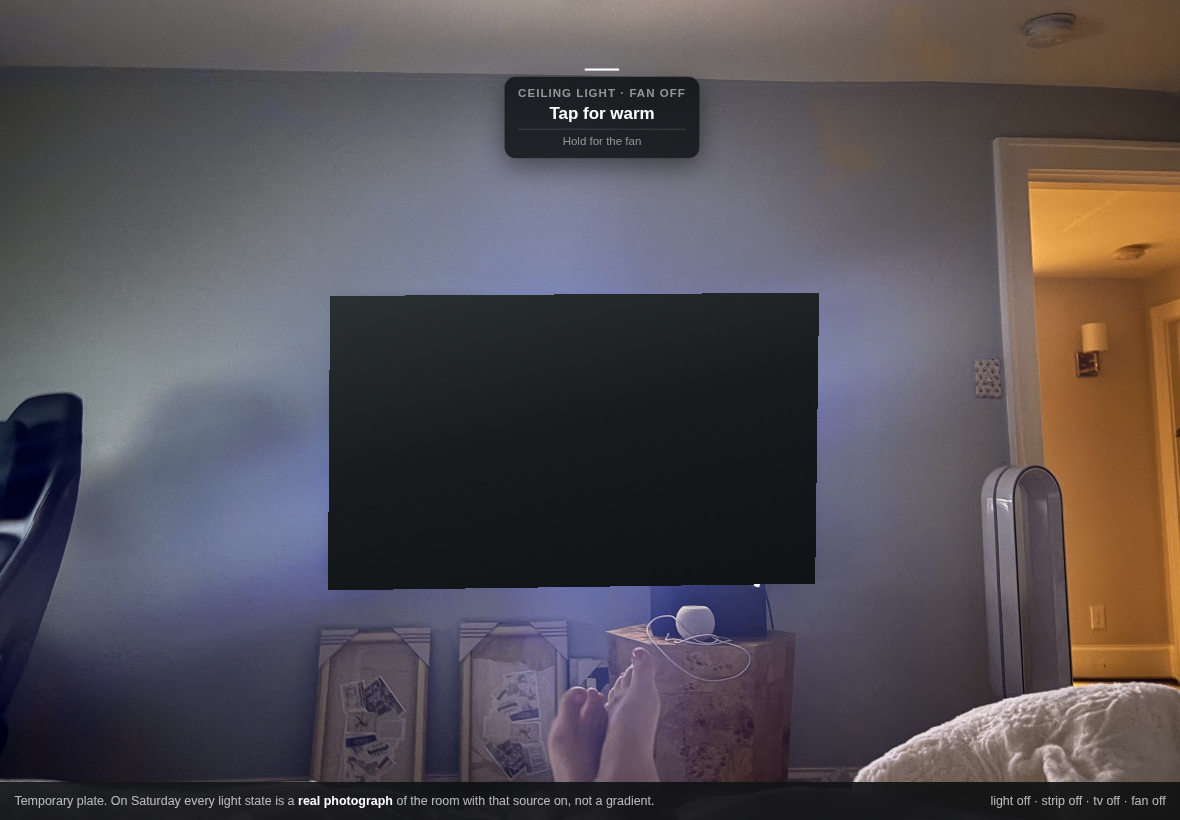
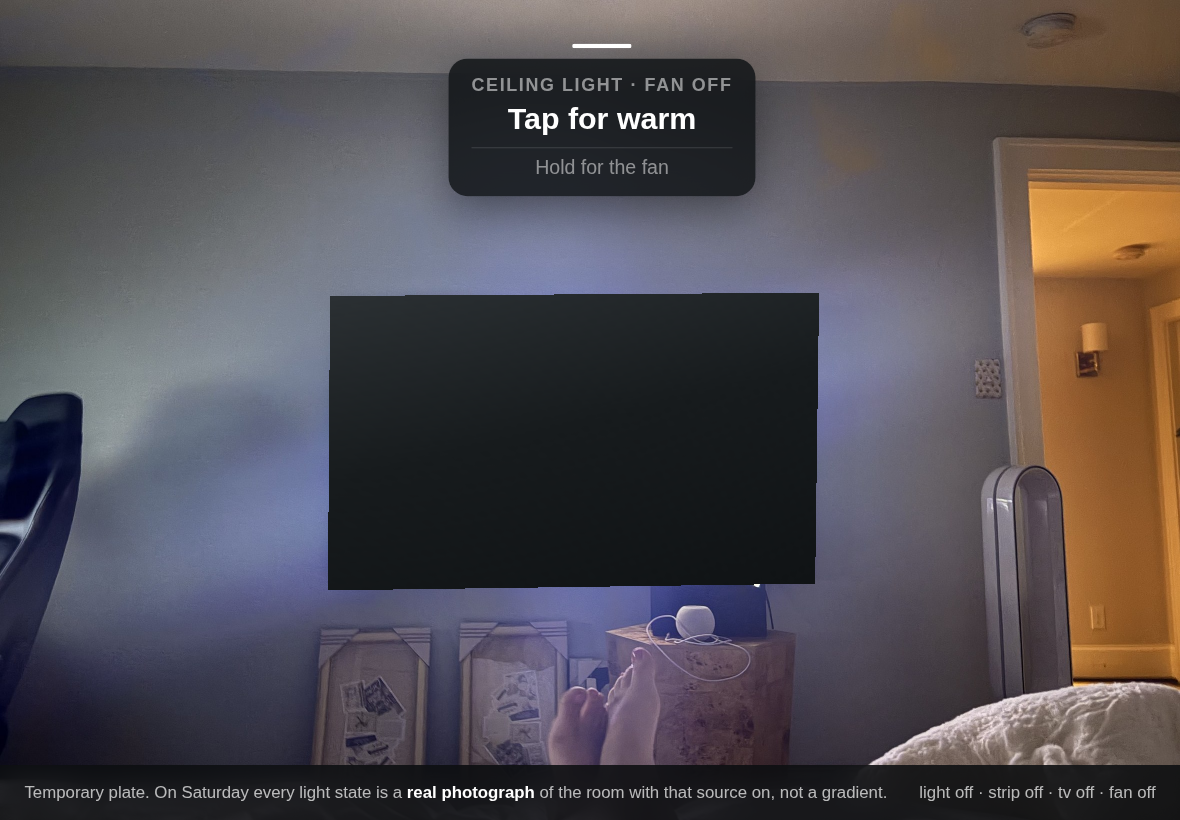
Size the type for a wall panel read across a room
The whole scale is one fluid line on html and everything downstream was already
in rem, so the change is a root value plus the four sizes that were still fixed
in px. Lands around 27px for body copy on the iPad, roughly 1.7x a browser
default.

The tradeoff is deliberate: less of a story fits and the panels scroll further.
That is the right way round for something bolted to a wall, because text you
cannot read from where you are standing is not on the screen at all.

The settings panel now scrolls. It has more rows than it used to and at this
size the Done button went off the bottom of the shorter iPad, leaving the scrim
as the only way to dismiss it, which is not discoverable enough to be the only
way out of a panel.

The source picker's labels move from vmin to px inside the box that gets mapped
onto the television. Sized against the viewport they were right on this plate
and would have been wrong on any other, since the whole point of the mapping is
that the television can land anywhere in the frame.

Claude-Session: https://claude.ai/code/session_01PLQX8NFdFZACvUmmxiss33

Changed region(s): [[0.0, 0.9146, 1.0, 1.0], [0.3661, 0.0305, 0.6407, 0.2744]]

diff --git a/index.html b/index.html
@@ -63,10 +63,22 @@
 
 *,*::before,*::after{box-sizing:border-box}
 html,body{height:100%;margin:0;overflow:hidden}
-html{-webkit-text-size-adjust:100%}
+/* ---------------- type size ----------------
+   This panel is bolted to a wall and read from across the room, not held at arm's
+   length, so the whole scale is set once here and everything downstream is in rem.
+
+   Fluid rather than fixed because the two iPads differ by 0.8% and because a value that
+   works on the panel should not need a second value for a laptop while developing. At
+   1180pt it lands around 27px, which is roughly 1.7x the browser default: chosen so a
+   line of body copy is legible from the bed, which is the actual reading distance.
+
+   The tradeoff is real and worth knowing: bigger type means less of a story on screen at
+   once, so the panels scroll further. That is the right way round for this. Something
+   you cannot read from where you are standing is not on the screen at all. */
+html{-webkit-text-size-adjust:100%; font-size:clamp(20px, 2.3vw, 30px)}
 body{
   background:var(--wall);
-  font:400 17px/1.55 Helvetica, Arial, sans-serif;
+  font:400 1.02rem/1.5 Helvetica, Arial, sans-serif;
   color:var(--ink);
   -webkit-user-select:none; user-select:none;
   -webkit-touch-callout:none;
@@ -234,7 +246,7 @@ button{font:inherit;color:inherit;margin:0}
   height:var(--front-h, 6vw); aspect-ratio:.61;
   border:.2vw dashed rgba(60,66,58,.62); background:rgba(250,250,247,.94);
   display:flex; align-items:center; justify-content:center;
-  font:700 clamp(8px,.72vw,12px)/1 Helvetica,Arial,sans-serif;
+  font:700 clamp(11px,1.05vw,18px)/1 Helvetica,Arial,sans-serif;
   color:rgba(38,44,38,.66); letter-spacing:.04em; text-transform:uppercase;
 }
 .ledge .shelf img{width:100%; height:100%; object-fit:fill; border-radius:0}
@@ -264,8 +276,8 @@ button{font:inherit;color:inherit;margin:0}
   background:rgba(255,255,255,.30);
   color:rgba(38,44,38,.66);
 }
-.todo b{font:700 clamp(9px,.86vw,15px)/1.2 Helvetica,Arial,sans-serif;letter-spacing:.02em}
-.todo span{font:400 clamp(8px,.7vw,12px)/1.25 Helvetica,Arial,sans-serif;opacity:.8}
+.todo b{font:700 clamp(12px,1.25vw,21px)/1.2 Helvetica,Arial,sans-serif;letter-spacing:.02em}
+.todo span{font:400 clamp(11px,1.02vw,17px)/1.25 Helvetica,Arial,sans-serif;opacity:.8}
 .ledge .todo{width:100%}
 
 /* ============================ story panel ============================ */
@@ -287,13 +299,13 @@ body.story-open #story{transform:none; visibility:visible}
 #storyTop .grow{flex:1 1 auto; min-width:0}
 .stamp{
   display:inline-block; background:var(--pink); color:#fff;
-  font:400 15px/1 Impact,"Arial Narrow Bold","Arial Black",Helvetica,sans-serif;
+  font:400 .88rem/1 Impact,"Arial Narrow Bold","Arial Black",Helvetica,sans-serif;
   letter-spacing:.06em; text-transform:uppercase;
   padding:.35rem .6rem .3rem; transform:rotate(-1.5deg); margin-bottom:.55rem;
 }
-.stamp.big{background:var(--red); font-size:19px}
+.stamp.big{background:var(--red); font-size:1.12rem}
 #storyTop h1{
-  margin:0; font:900 clamp(1.5rem,3.1vw,2.4rem)/1.02 "Arial Black",Helvetica,Arial,sans-serif;
+  margin:0; font:900 clamp(1.6rem,3.4vw,2.6rem)/1.02 "Arial Black",Helvetica,Arial,sans-serif;
   text-transform:uppercase; letter-spacing:-.02em;
 }
 #storyTop .facts{margin:.5rem 0 0; font-size:.9rem; color:#444}
@@ -341,7 +353,7 @@ body.story-open #story{transform:none; visibility:visible}
 .box.blue{box-shadow:5px 5px 0 var(--navy)}
 .box h3{
   margin:0 0 .5rem;
-  font:400 19px/1.15 Impact,"Arial Narrow Bold","Arial Black",Helvetica,sans-serif;
+  font:400 1.14rem/1.15 Impact,"Arial Narrow Bold","Arial Black",Helvetica,sans-serif;
   letter-spacing:.04em; text-transform:uppercase;
 }
 .box p{margin:0 0 .6rem; font-size:.95rem}
@@ -388,7 +400,7 @@ body.story-open #story{transform:none; visibility:visible}
 .saga-wrap{width:min(46rem,100%); margin-inline:auto}
 .chapter{padding:0 0 2rem; border-bottom:3px solid #000; margin-bottom:2rem}
 .chapter:last-child{border-bottom:0}
-.chapter h2{margin:0; font:900 clamp(1.2rem,2.4vw,1.6rem)/1.1 Helvetica,Arial,sans-serif}
+.chapter h2{margin:0; font:900 clamp(1.3rem,2.7vw,1.8rem)/1.1 Helvetica,Arial,sans-serif}
 .chapter .facts{margin:.45rem 0 1rem; font-size:.88rem; color:#444}
 .chapter .facts b{color:#111}
 
@@ -472,6 +484,11 @@ body.idle #wall::after{opacity:.5}
   position:fixed; z-index:80; left:50%; top:50%;
   transform:translate(-50%,-50%) scale(.96);
   width:min(30rem,88vw);
+  /* Scrolls, because the type is now sized for reading across a room and the settings
+     panel has more rows than it did. Without this the Done button goes off the bottom
+     of the screen on the shorter iPad and there is no way to dismiss the panel except
+     the scrim, which is not obvious enough to rely on. */
+  max-height:88vh; overflow-y:auto; -webkit-overflow-scrolling:touch;
   background:#fff; border:3px solid #000; box-shadow:8px 8px 0 var(--pink);
   padding:1.3rem 1.4rem; opacity:0; visibility:hidden;
   transition:opacity .2s var(--ease), transform .2s var(--ease), visibility .2s;
@@ -479,7 +496,7 @@ body.idle #wall::after{opacity:.5}
 .panel.on{opacity:1; visibility:visible; transform:translate(-50%,-50%) scale(1)}
 .panel h2{
   margin:0 0 .3rem;
-  font:400 22px/1.1 Impact,"Arial Narrow Bold","Arial Black",Helvetica,sans-serif;
+  font:400 1.3rem/1.1 Impact,"Arial Narrow Bold","Arial Black",Helvetica,sans-serif;
   letter-spacing:.04em; text-transform:uppercase;
 }
 .panel .hint{font-size:.84rem; color:#555; margin:0 0 1rem}

diff --git a/ForOliviaToApprove/demo.html b/ForOliviaToApprove/demo.html
@@ -7,6 +7,8 @@
 <style>
 *,*::before,*::after{box-sizing:border-box}
 html,body{height:100%;margin:0;overflow:hidden;background:#111}
+/* Same scale as the app. This is read from across the room, not at arm's length. */
+html{font-size:clamp(20px, 2.3vw, 30px)}
 body{
   font:400 17px/1.5 Helvetica, Arial, sans-serif; color:#fff;
   -webkit-user-select:none; user-select:none; -webkit-touch-callout:none;
@@ -69,10 +71,10 @@ body.tv-off #tvOff{opacity:1}
 }
 #cap.on{opacity:1; transform:translate(-50%,-50%) scale(1)}
 #cap .now{
-  font:700 .72rem/1.1 Helvetica,Arial,sans-serif; letter-spacing:.09em;
+  font:700 .66rem/1.1 Helvetica,Arial,sans-serif; letter-spacing:.09em;
   text-transform:uppercase; color:rgba(255,255,255,.52);
 }
-#cap .next{font:700 1.06rem/1.3 Helvetica,Arial,sans-serif; margin-top:.15rem}
+#cap .next{font:700 1.12rem/1.3 Helvetica,Arial,sans-serif; margin-top:.15rem}
 #cap .hold{
   font:400 .72rem/1.2 Helvetica,Arial,sans-serif; color:rgba(255,255,255,.5);
   margin-top:.3rem; padding-top:.3rem; border-top:1px solid rgba(255,255,255,.14);
@@ -102,15 +104,19 @@ body.tv-off #tvOff{opacity:1}
 }
 #picker.on{opacity:1; visibility:visible}
 #picker button{
-  flex:1; height:46%; border:0; border-radius:1.4vmin;
+  flex:1; height:46%; border:0; border-radius:18px;
   background:rgba(255,255,255,.09);
-  color:#fff; font:700 3.4vmin/1.2 Helvetica,Arial,sans-serif;
+  /* px inside the mapped 1000x562 box, not vmin. The box is scaled onto the TV's
+     corners, so px here are a fixed fraction of the television however large it lands
+     in the photograph. Sized against the viewport instead, the labels would be right
+     on this plate and wrong on Saturday's. */
+  color:#fff; font:700 62px/1.2 Helvetica,Arial,sans-serif;
   display:flex; flex-direction:column; align-items:center; justify-content:center;
-  gap:1.4vmin; cursor:pointer;
+  gap:6px; cursor:pointer;
   transition:background .14s var(--ease), transform .14s var(--ease);
 }
 #picker button .sub{
-  font:400 1.7vmin/1.2 Helvetica,Arial,sans-serif; opacity:.55; margin-top:.7vmin;
+  font:400 34px/1.2 Helvetica,Arial,sans-serif; opacity:.55; margin-top:14px;
 }
 #picker button.cur{background:rgba(255,255,255,.94); color:#111}
 #picker button:active{transform:scale(.97)}
@@ -124,7 +130,7 @@ body.tv-off #tvOff{opacity:1}
   position:fixed; left:0; right:0; bottom:0; z-index:60;
   background:rgba(10,13,15,.86);
   -webkit-backdrop-filter:blur(16px); backdrop-filter:blur(16px);
-  padding:.6rem .9rem; font-size:.78rem; color:rgba(255,255,255,.7);
+  padding:.55rem .9rem; font-size:.62rem; color:rgba(255,255,255,.7);
   display:flex; justify-content:space-between; gap:1rem; align-items:center;
 }
 #banner b{color:#fff}

diff --git a/ForOliviaToApprove/README.md b/ForOliviaToApprove/README.md
@@ -1,6 +1,6 @@
 # For approval
 
-The interaction design for the room page. Nine numbered items. Reply with the numbers
+The interaction design for the room page. Ten numbered items. Reply with the numbers
 and what you want changed; anything you don't mention I'll take as approved.
 
 **Open `demo.html` on the iPad and actually press things.** The screenshots are here so
@@ -109,13 +109,29 @@ and you have a whole computer once it's on.
 The Dyson has no visual state in a photograph, so it's the one object where the caption
 is doing real work rather than confirming what you can already see.
 
-## 8. Hold is 500ms
+## 8. Type is sized for the room, not for your hand
+
+Everything is on one fluid scale set in a single line, landing around 27px for body copy
+on the iPad, roughly 1.7x a browser default. It is read from the bed and from standing in
+the doorway, not at arm's length.
+
+The tradeoff is real: less of a story fits on screen, so the panels scroll further. That
+is the right way round. Something you cannot read from where you are standing is not on
+the screen at all.
+
+The picker's labels are sized *inside the box that gets mapped onto the TV*, not against
+the screen, so they stay a fixed fraction of the television however large it turns out to
+be in Saturday's photograph.
+
+Tell me if it wants to be bigger still. It is one number.
+
+## 9. Hold is 500ms
 
 Long enough not to fire on a slow tap, short enough not to feel like waiting. It's one
 constant and trivial to change, so if it feels wrong on the actual glass, say so and give
 me "longer" or "shorter" rather than a number.
 
-## 9. What I have not designed yet
+## 10. What I have not designed yet
 
 Deliberately, because they need decisions from you first:
 
